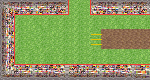
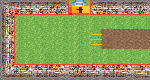
added dungeon key system for cricketroom3

Changed region(s): [[0.4533, 0.0, 0.6133, 0.2]]

diff --git a/Overworld.py b/Overworld.py
@@ -12,6 +12,7 @@ from Kohli import *
 from CricketNPC import *
 from Exit import *
 from items.Ladoo import *
+from items.Key import *
 
 class Overworld(Room):
     
@@ -67,7 +68,8 @@ class Overworld(Room):
         self.obstacle17 = Obstacles("test_object1.png", 0, screen_height-150, screen_width, 150)
         self.obstacle18 = Obstacles("test_object1.png", screen_width-600, 290, 600, 200)
         self.cricketroom3.add_obstacles([self.obstacle7, self.obstacle8, self.obstacle17, self.obstacle16, self.obstacle18])
-        
+        self.cricketroom2.add_key(Key(self.cricketroom3, 800, 400, 800, 100))
+
         self.cricketroom4 = Biome("cricketroom4", "floor1/cricketroom4.png", [Exit(800, screen_height, self.cricketroom3, "down", self.V_width, self.down_height)], [], False)
         self.cricketroom4.add_obstacles([self.obstacle7, self.obstacle8, self.obstacle9, self.obstacle14, self.obstacle15, self.obstacle16])
         
@@ -428,3 +430,35 @@ class Overworld(Room):
     def picksupitems(self, player:Player2, biome:Biome):
         for item in biome.items:
             player.get_healed(item)
+
+    def pickupkeys(self, player:Player2, biome:Biome):
+        for key in biome.keys:
+            player.get_key(key)
+
+    def unlockroom(self, player, biome, screen):
+        for key in player.key_inventory:
+            if not key.used and key.biomeunlock == biome:
+                #reset biome.file_path to unlocked version (should be initial file path + unlocked)
+                player.key_inventory.remove(key)
+                key.used = True
+                key.pickedup = False
+                key.x_pos = player.player_rectangle.topleft[0]
+                key.y_pos = player.player_rectangle.topleft[1]
+                for i in range(10):
+                    self.flykey(biome,  player,key, screen, i)
+                key.pickedup = True
+                biome.file_path = biome.file_path[:-4] + "unlocked.png"
+                break
+
+    def flykey(self, biome, player, key, screen, i):
+        if key.k_x_pos > key.x_pos:
+            key.x_pos = key.x_pos + (key.k_x_pos - key.x_pos) * i/10
+        else: key.x_pos = key.x_pos - (key.x_pos - key.k_x_pos) * i/10
+        if key.k_y_pos > key.y_pos:
+            key.y_pos = key.y_pos + (key.k_y_pos - key.y_pos) * i/10
+        else: key.y_pos = key.y_pos - (key.y_pos - key.k_y_pos) * i/10
+        biome.render(0, 0, player, screen)
+        key.render(screen)
+        pygame.display.update()
+        pygame.time.wait(300)
+        

diff --git a/Player2.py b/Player2.py
@@ -58,6 +58,7 @@ class Player2:
         self.heart_spacing = 40
     
         self.username = username
+        self.key_inventory = []
         self.inventory = inventory
         self.curr_level = curr_level
         self.curr_checkpoint = curr_checkpoint
@@ -95,13 +96,16 @@ class Player2:
                     monster.last_hit=pygame.time.get_ticks()
 
     def get_healed(self, item):
-        print(item.item_rectangle)
-
         if (self.player_rectangle.colliderect(item.item_rectangle)) and not item.used:
             self.health_bar+=item.power
             if (self.health_bar>self.original_health):
                 self.health_bar=self.original_health
             item.used=True
+
+    def get_key(self, key):
+        if (self.player_rectangle.colliderect(key.key_rectangle)):
+            self.key_inventory.append(key)
+            key.pickedup = True
         
     def die_and_begone(self, screen, overworld=None):
         if self.lives_remaining <= 0:

diff --git a/items/Key.py b/items/Key.py
@@ -1,0 +1,24 @@
+import pygame
+import os
+
+class Key:
+    def __init__(self, biomeunlock, x_pos, y_pos, k_x_pos, k_y_pos) -> None:
+        self.img = pygame.image.load(os.path.join("Assets", "key.png"))
+        self.biomeunlock = biomeunlock
+        self.start_x_pos = x_pos
+        self.start_y_pos = y_pos
+        self.x_pos = x_pos
+        self.y_pos = y_pos
+        self.k_x_pos = k_x_pos
+        self.k_y_pos = k_y_pos
+        self.key_rectangle = self.img.get_rect()
+        self.key_rectangle[0] = x_pos
+        self.key_rectangle[1] = y_pos
+        self.pickedup = False
+        self.used = False
+
+    def render(self, screen:pygame.display):
+        if self.pickedup:
+            return
+        image = pygame.transform.scale(self.img, (64, 64))
+        screen.blit(image, (self.x_pos, self.y_pos))

diff --git a/Biome.py b/Biome.py
@@ -21,6 +21,7 @@ class Biome(Room):
         self.obstacles_rect = []
         self.monsters = []
         self.items = []
+        self.keys = []
         self.text = text
     
     def get_image(self):
@@ -52,6 +53,9 @@ class Biome(Room):
                 self.monsters.remove(m)
 
         for i in self.items:
+            i.render(screen)
+
+        for i in self.keys:
             i.render(screen)
 
         player.render(player.player_rectangle.topleft[0],player.player_rectangle.topleft[1], screen)
@@ -89,3 +93,6 @@ class Biome(Room):
             if obstacle.colliderect((x_pos, y_pos, 100, 100)):
                 return False
         return True
+    
+    def add_key(self, key):
+        self.keys.append(key)

diff --git a/Main5.py b/Main5.py
@@ -163,10 +163,12 @@ def init_home_screen():
 
 
     while gameLoop:
-        clock.tick(60)
+        clock.tick(30)
         framecounter = framecounter + 1
         overworld.obstacles_in_biome(player1, curr_screen)
         overworld.picksupitems(player1, curr_screen)
+        overworld.pickupkeys(player1, curr_screen)
+        overworld.unlockroom(player1, curr_screen, screen)
 
         curr_screen.render(curr_screen_x_pos, curr_screen_y_pos, player1, screen)
         
